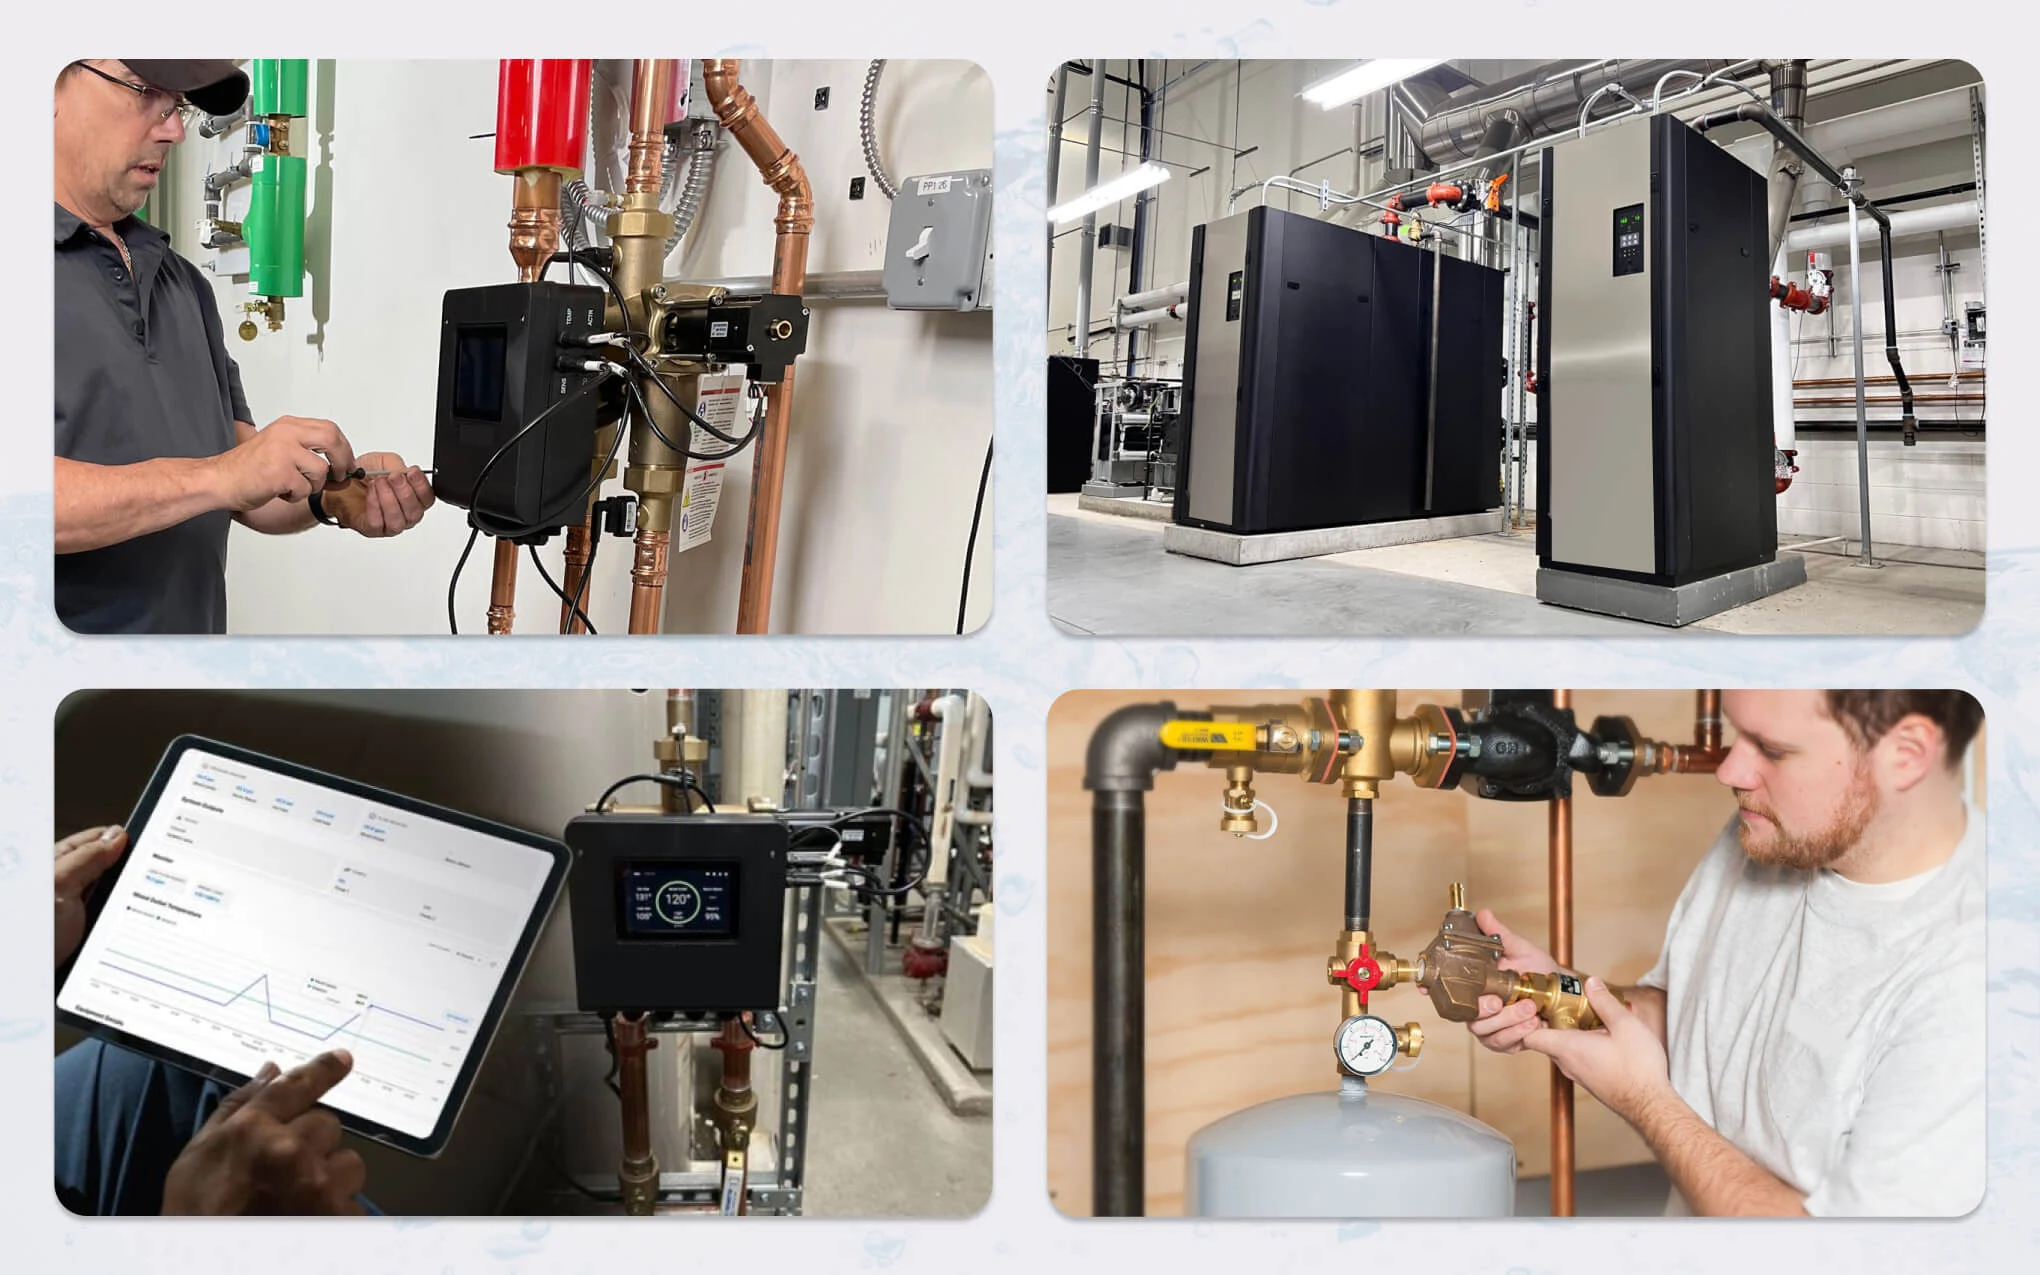
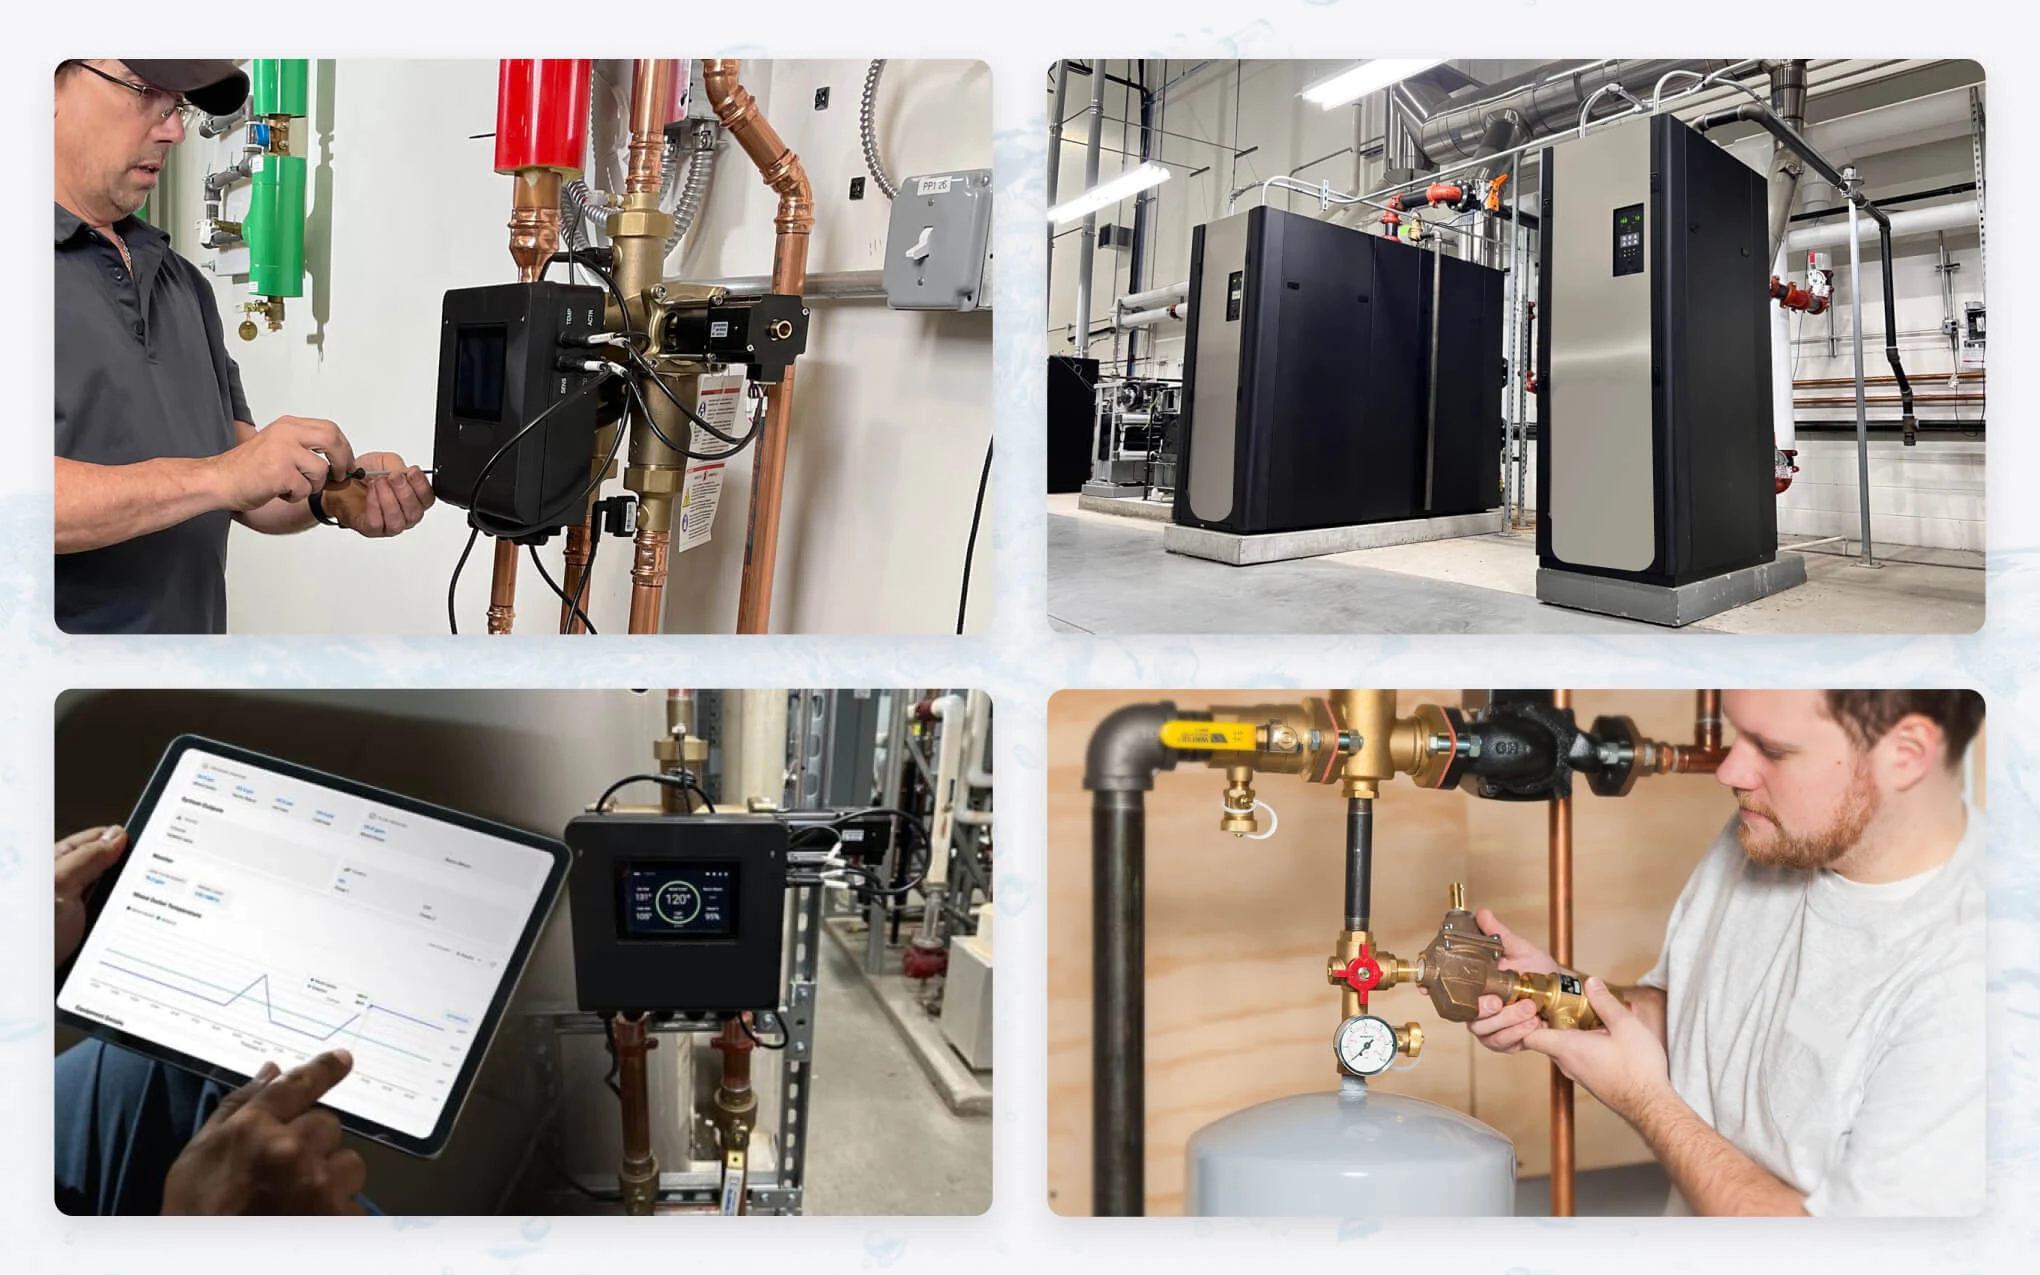
Charting: bordered benchmark (single image), recomposed interview, new company image
Claude-Session: https://claude.ai/code/session_01ScZWVYV6pDDWvBkjzV5qA5

diff --git a/case-studies/charting.html b/case-studies/charting.html
@@ -53,7 +53,7 @@
 <p>The company* is a global leader in water solutions for residential, industrial, municipal, and commercial use. Its 26 brands cover drainage, HVAC and hot water, plumbing and flow control, water quality, and rainwater harvesting.</p>
 <p class="note">*Company name, brands, and logos are hidden for confidentiality reasons.</p>
 <figure class="figure">
-<img src="../assets/img/charting-company.webp" data-full="../assets/img/charting-company-full.webp" alt="Four photos of the company's products installed in the field: a technician working on a water control unit, large commercial water heaters, a tablet showing a sensor chart next to a controller, and plumbing fittings on a tank" width="1600" height="1000" loading="lazy">
+<img src="../assets/img/charting-company.webp?v=2" data-full="../assets/img/charting-company-full.webp?v=2" alt="Four photos of the company's products installed in the field: a technician working on a water control unit, large commercial water heaters, a tablet showing a sensor chart next to a controller, and plumbing fittings on a tank" width="1600" height="1000" loading="lazy">
 </figure>
 <p>Sales representatives use the platform's charting view to analyze sensor data across locations. They spot anomalies, find correlations, and build reports that reveal upsell opportunities.</p>
 <p>The charts ran on Power BI. To cut costs and gain flexibility, the product owner decided to replace it with an in-house feature.</p>
@@ -82,7 +82,7 @@
 <h2>1. Research</h2>
 <p>I interviewed 3 customer success representatives about how they use Power BI. The product owner joined the sessions.</p>
 <figure class="figure">
-<img src="../assets/img/charting-interview.webp" data-full="../assets/img/charting-interview-full.webp" alt="Video call screenshot of a user interview: a sales rep, with his face blurred, shows the product owner and me how he uses Power BI to chart sensor data" width="1600" height="1000" loading="lazy">
+<img src="../assets/img/charting-interview.webp?v=2" data-full="../assets/img/charting-interview-full.webp?v=2" alt="Video call screenshot of a user interview: a sales rep, with his face blurred, shows the product owner and me how he uses Power BI to chart sensor data" width="1600" height="1000" loading="lazy">
 <figcaption>A sales rep shows the product owner and me how he uses Power BI.</figcaption>
 </figure>
 <p>We discovered that users focused on two tasks in their analysis:</p>
@@ -114,12 +114,8 @@
 <li>Add and remove data points</li>
 <li>Add and edit charts</li>
 </ul>
-<figure class="figure">
-<div class="box" role="img" aria-label="Internal charting views">Internal charting views (image coming)</div>
-<figcaption>Charting views from the sensor device screen and old versions of the platform.</figcaption>
-</figure>
-<figure class="figure">
-<div class="box" role="img" aria-label="Competitor benchmark">Competitor benchmark (image coming)</div>
+<figure class="figure figure--wide">
+<a class="zoom" href="../assets/img/charting-benchmark-full.webp?v=1" target="_blank" rel="noopener" aria-label="Open the full-size benchmark image in a new tab"><img src="../assets/img/charting-benchmark.webp?v=1" data-full="../assets/img/charting-benchmark-full.webp?v=1" alt="Four benchmarked charting views, each labeled: Power BI with pressure and temperature charts, Beestat with a thermostat dashboard, Yahoo Finance with a stacked market chart and indicators, and Room Alert with a graphed data report and sensor table" width="2000" height="1065" loading="lazy"></a>
 <figcaption>Benchmark of Power BI, Beestat, Yahoo Finance, and Room Alert.</figcaption>
 </figure>
 </section>
